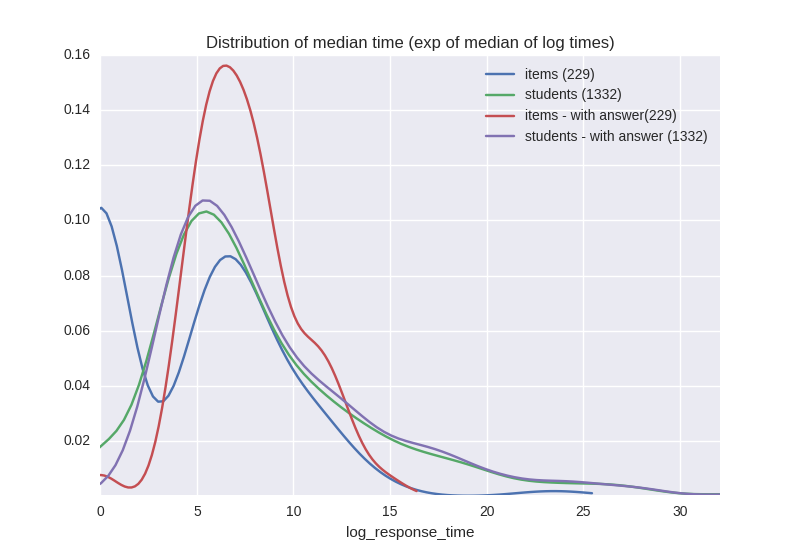
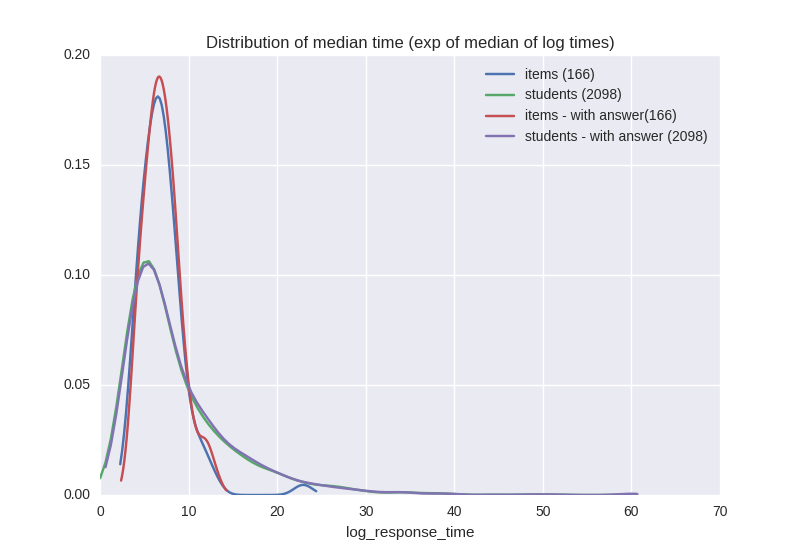
fix problem with zero response time = > ln = -inf

diff --git a/matmat/descriptive.py b/matmat/descriptive.py
@@ -4,25 +4,29 @@ import matplotlib.pyplot as plt
 import numpy as np
 
 
-def response_times(data):
+def response_times(data, time_dist=True, mean_times_dist=True):
     data.filter_data()
     data.trim_times()
     data.add_log_response_times()
     df = data.get_dataframe_all()
 
-    plt.figure()
-    sns.distplot(df["response_time"], hist=False, bins=30, label="all")
-    sns.distplot(df[df["answer"].isnull()]["response_time"], hist=False, bins=30, label="without answer (null)")
-    sns.distplot(df[df["correct"] == True]["response_time"], hist=False, bins=30, label="correct answer")
-    sns.distplot(df[df["correct"] == False][~df["answer"].isnull()]["response_time"], hist=False, bins=30, label="wrong answer (not null)")
-    plt.title("Response time distribution per answer type")
+    if time_dist:
+        plt.figure()
+        sns.distplot(df["response_time"], hist=False, bins=30, label="all")
+        sns.distplot(df[df["answer"].isnull()]["response_time"], hist=False, bins=30, label="without answer (null)")
+        sns.distplot(df[df["correct"] == True]["response_time"], hist=False, bins=30, label="correct answer")
+        sns.distplot(df[df["correct"] == False][~df["answer"].isnull()]["response_time"], hist=False, bins=30, label="wrong answer (not null)")
+        plt.title("Response time distribution per answer type")
 
-    plt.figure()
-    sns.distplot(np.exp(df.groupby("item")["log_response_time"].mean()), hist=False, label="items ({})".format(len(data.get_items())))
-    sns.distplot(np.exp(df.groupby("student")["log_response_time"].mean()), hist=False, label="students ({})".format(len(data.get_students())))
-    sns.distplot(np.exp(df[~df["answer"].isnull()].groupby("item")["log_response_time"].mean()), hist=False, label="items - with answer({})".format(len(data.get_items())))
-    sns.distplot(np.exp(df[~df["answer"].isnull()].groupby("student")["log_response_time"].mean()), hist=False, label="students - with answer ({})".format(len(data.get_students())))
-    plt.title("Distribution of median time (exp of median of log times)")
+    if mean_times_dist:
+        plt.figure()
+        sns.distplot(np.exp(df.groupby("item")["log_response_time"].mean()), hist=False, label="items ({})".format(len(data.get_items())))
+        sns.distplot(np.exp(df.groupby("student")["log_response_time"].mean()), hist=False, label="students ({})".format(len(data.get_students())))
+        sns.distplot(np.exp(df[~df["answer"].isnull()].groupby("item")["log_response_time"].mean()), hist=False, label="items - with answer({})".format(len(data.get_items())))
+        sns.distplot(np.exp(df[~df["answer"].isnull()].groupby("student")["log_response_time"].mean()), hist=False, label="students - with answer ({})".format(len(data.get_students())))
+
+
+        plt.title("Distribution of median time (exp of median of log times)")
 
 
 def answer_count(data, per_student=True, per_item=True, student_drop_off=True):
@@ -75,8 +79,8 @@ def success_rate(data, per_student=True, per_item=True):
 
 data = Data("../data/matmat/2015-11-20/answers.pd")
 
-# response_times(data)
-# answer_count(data, per_student=False, per_item=False)
-success_rate(data, per_student=False)
+response_times(data, time_dist=False, mean_times_dist=True)
+# answer_count(data, per_student=False, per_item=True, student_drop_off=False)
+# success_rate(data, per_student=False)
 
 plt.show()

diff --git a/utils/data.py b/utils/data.py
@@ -124,7 +124,7 @@ class Data():
 
     def trim_times(self, limit=60):
         self._load_file()
-        self._data.loc[self._data["response_time"] < 0, "response_time"] = 0
+        self._data.loc[self._data["response_time"] < 0.5, "response_time"] = 0.5
         self._data.loc[self._data["response_time"] > limit, "response_time"] = limit
 
     def add_log_response_times(self):
